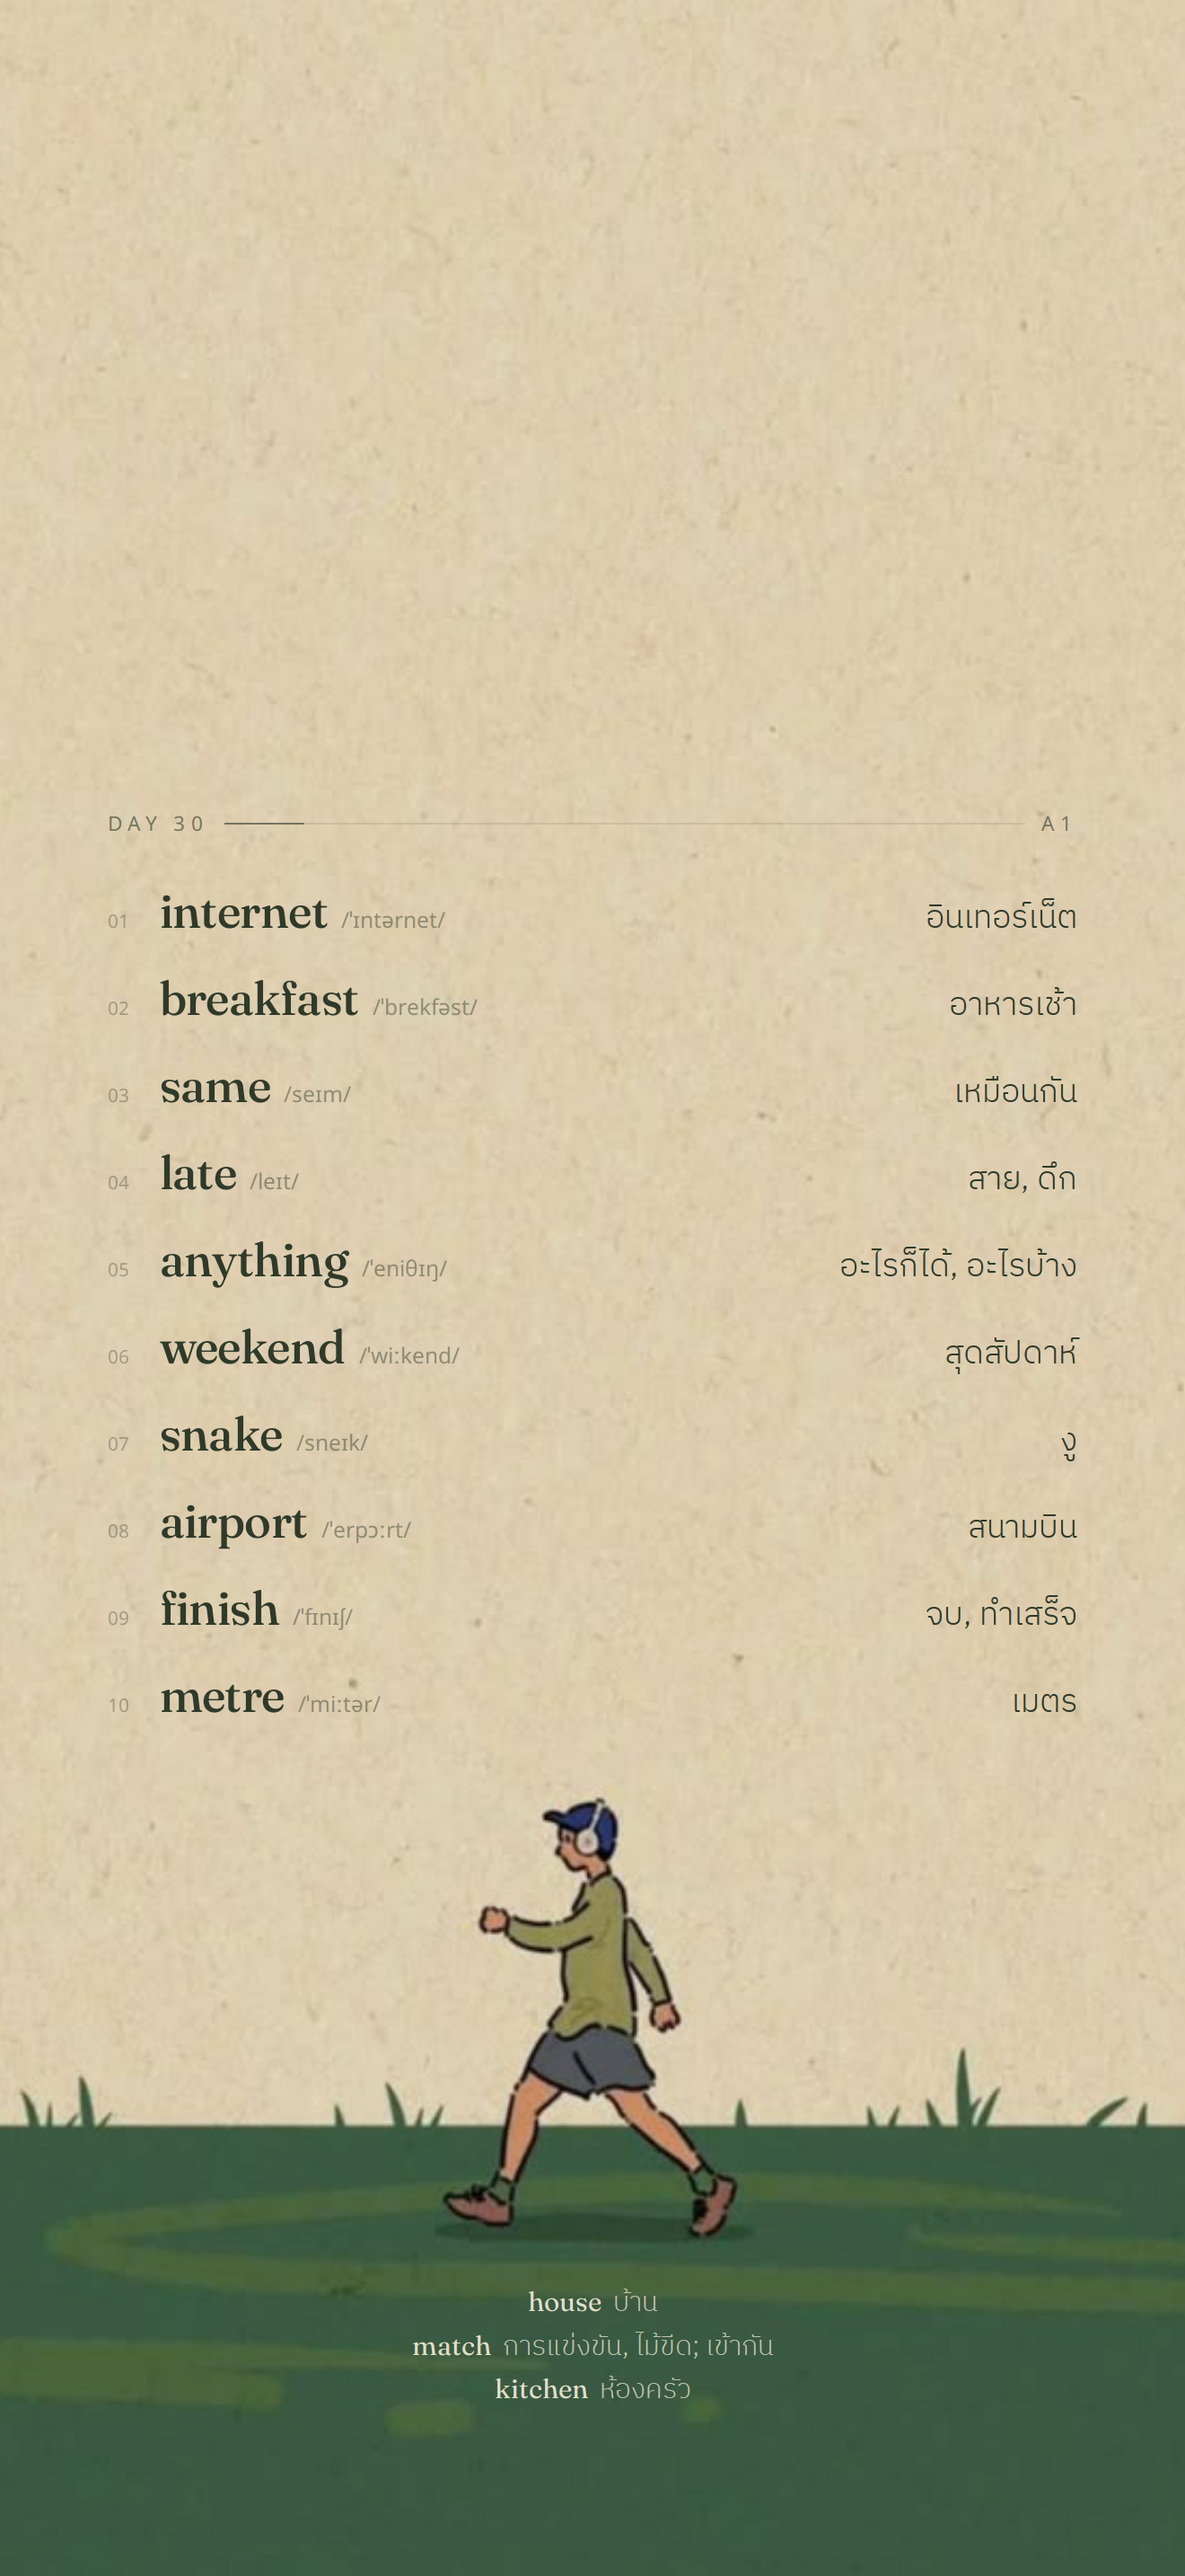
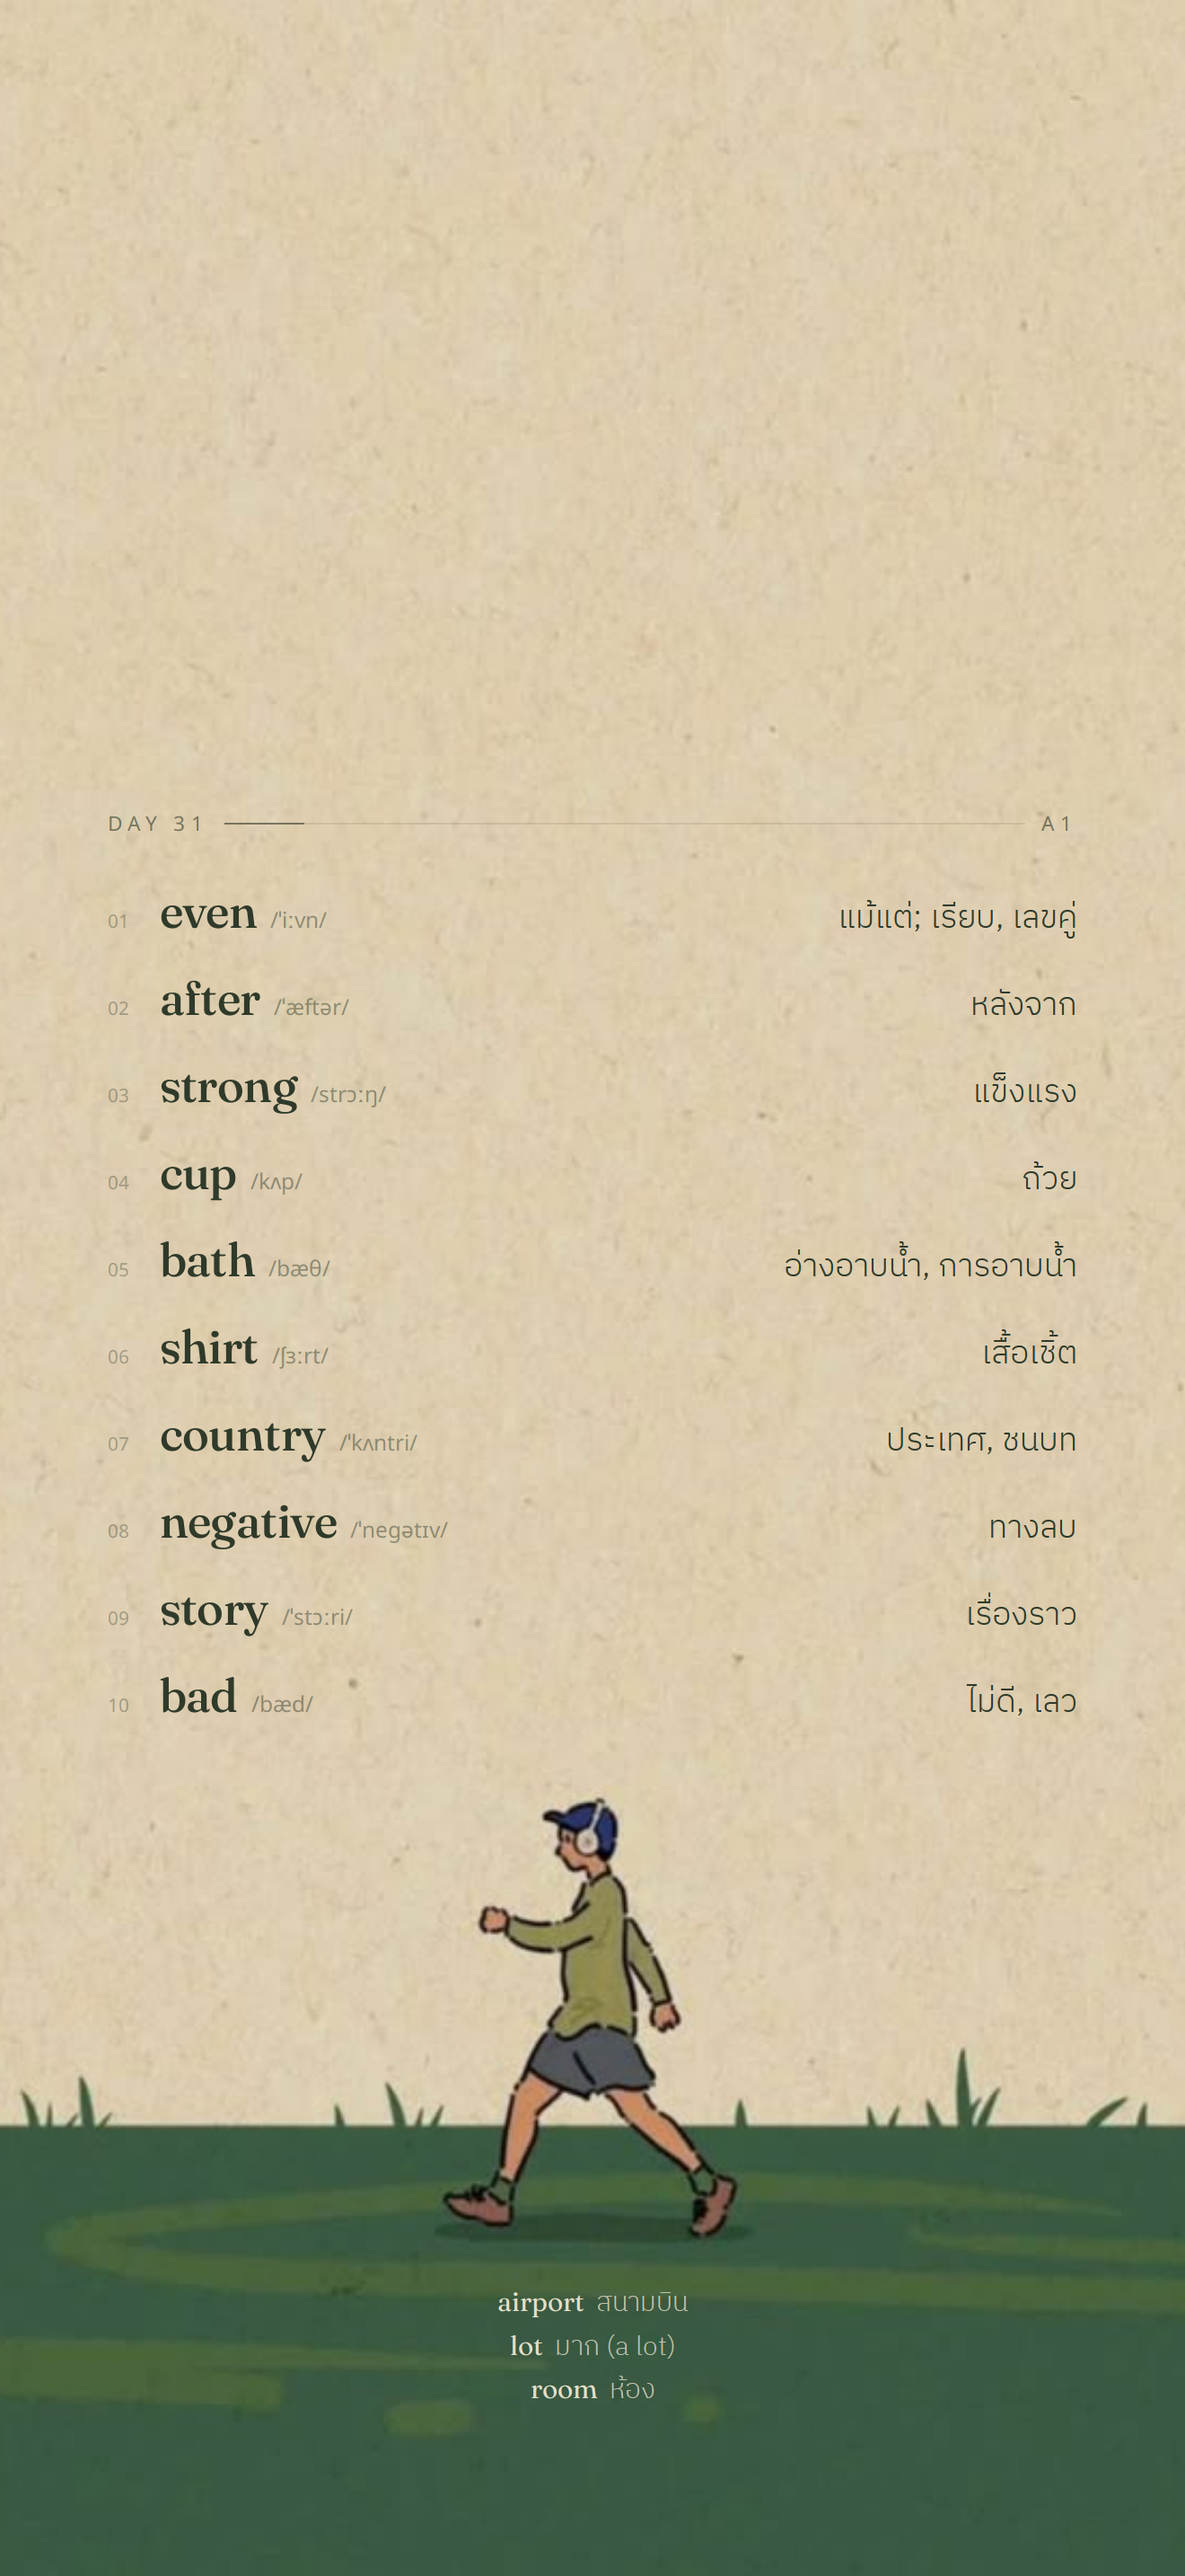
wallpaper: Day 31/298

diff --git a/docs/index.html b/docs/index.html
@@ -1,5 +1,5 @@
 <!DOCTYPE html><html lang="th"><head><meta charset="utf-8">
-<meta name="viewport" content="width=device-width,initial-scale=1"><title>Day 30 vocab wallpaper</title>
+<meta name="viewport" content="width=device-width,initial-scale=1"><title>Day 31 vocab wallpaper</title>
 <style>body{font-family:system-ui;background:#111;color:#eee;text-align:center;margin:24px}img{width:min(45vw,330px);border-radius:28px;margin:8px}</style></head>
-<body><h1>Day 30 / 298</h1><p>อัปเดต 2026-11-26T02:54:33.457Z</p>
-<a href="today.png"><img src="today.png?v=30" alt="today"></a><a href="quiz.png"><img src="quiz.png?v=30" alt="quiz"></a></body></html>
+<body><h1>Day 31 / 298</h1><p>อัปเดต 2026-11-27T01:00:38.570Z</p>
+<a href="today.png"><img src="today.png?v=31" alt="today"></a><a href="quiz.png"><img src="quiz.png?v=31" alt="quiz"></a></body></html>
